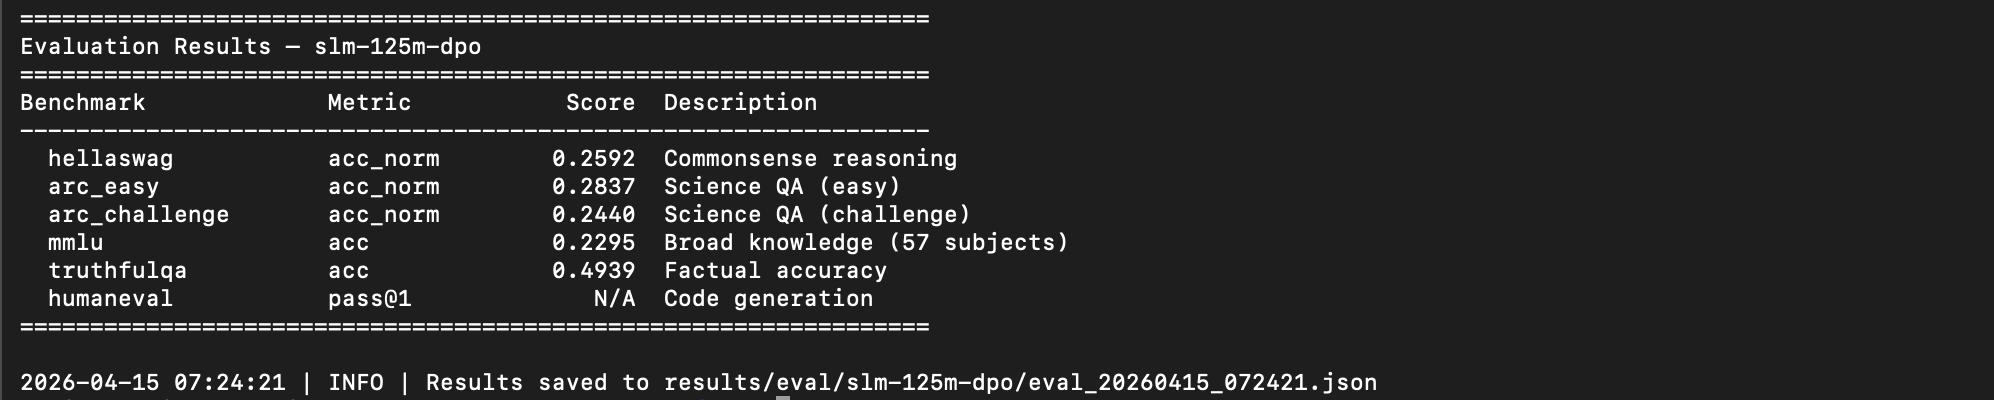
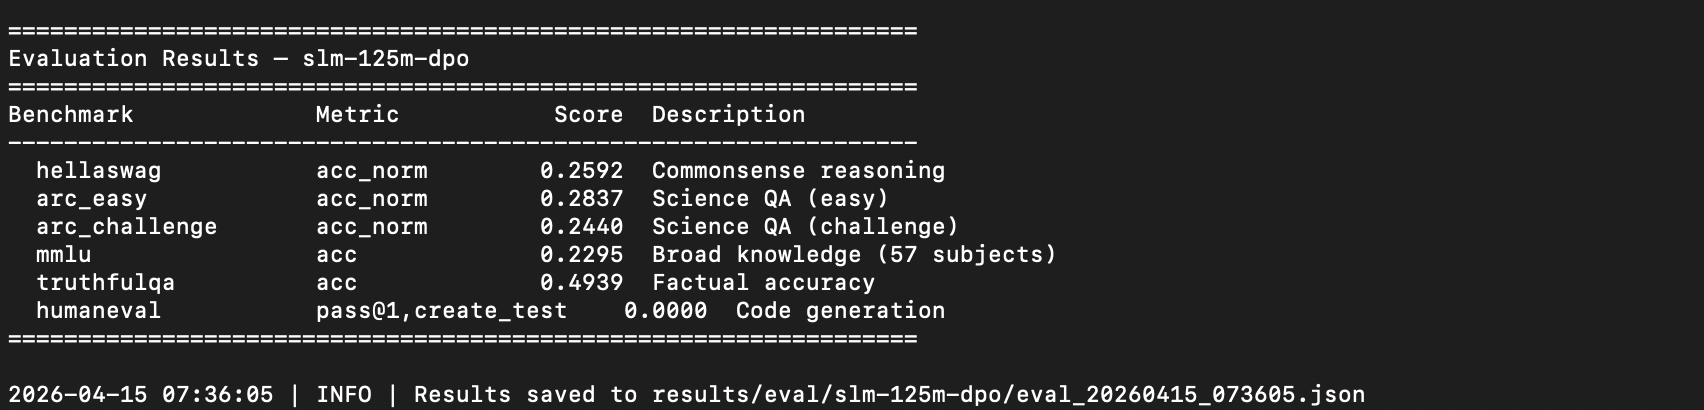
fix: remove safe_serialization from push_to_hub, fix tokenizer loading in export

Changed region(s): [[0.0, 0.03, 0.6221, 0.84], [0.0, 0.93, 0.8087, 1.0]]

diff --git a/export/export.py b/export/export.py
@@ -129,7 +129,12 @@ def load_eval_results(size: str) -> dict:
         }[task_key]
         if task_name in raw_results:
             metric = meta["metric"]
-            score = raw_results[task_name].get(metric) or raw_results[task_name].get(f"{metric},none")
+            # Try exact key, then with ,none suffix, then ,create_test suffix
+            score = (
+                raw_results[task_name].get(metric)
+                or raw_results[task_name].get(f"{metric},none")
+                or raw_results[task_name].get(f"{metric},create_test")
+            )
             if isinstance(score, (int, float)):
                 scores[task_key] = score
 
@@ -329,6 +334,35 @@ def _token_target(size: str) -> str:
     return {"125m": "3B", "350m": "10B", "1b": "25B"}.get(size, "N/A")
 
 
+# ── Tokenizer loader ──────────────────────────────────────────────────────────
+
+def load_tokenizer(tokenizer_path: Path):
+    """
+    Load the custom BPE tokenizer trained with the `tokenizers` library.
+
+    PreTrainedTokenizerFast.from_pretrained() fails when tokenizer_config.json
+    references TokenizersBackend, an unknown class in transformers.
+    Load directly from tokenizer.json and wrap in PreTrainedTokenizerFast.
+    """
+    from tokenizers import Tokenizer as HFTokenizer
+    from transformers import PreTrainedTokenizerFast
+
+    tokenizer_file = tokenizer_path / "tokenizer.json"
+    if not tokenizer_file.exists():
+        raise FileNotFoundError(f"tokenizer.json not found at {tokenizer_path}")
+
+    _tok = HFTokenizer.from_file(str(tokenizer_file))
+    tokenizer = PreTrainedTokenizerFast(tokenizer_object=_tok)
+    tokenizer.pad_token     = "<PAD>"
+    tokenizer.pad_token_id  = 0
+    tokenizer.eos_token     = "<EOS>"
+    tokenizer.eos_token_id  = 3
+    tokenizer.bos_token     = "<BOS>"
+    tokenizer.bos_token_id  = 2
+    tokenizer.chat_template = _chat_template()
+    return tokenizer
+
+
 # ── Export ────────────────────────────────────────────────────────────────────
 
 def export(
@@ -348,7 +382,7 @@ def export(
         dry_run:    If True, validate without pushing to Hub.
         private:    If True, create a private repository.
     """
-    from transformers import AutoConfig, AutoModelForCausalLM, PreTrainedTokenizerFast
+    from transformers import AutoConfig, AutoModelForCausalLM
     from huggingface_hub import HfApi, login
     from model import SLMConfig, SLMForCausalLM
 
@@ -376,20 +410,16 @@ def export(
 
     # Load model — actual parameter count used in model card
     log.info("Loading model...")
-    config  = SLMConfig.from_pretrained(str(checkpoint))
-    model   = SLMForCausalLM.from_pretrained(str(checkpoint))
+    config   = SLMConfig.from_pretrained(str(checkpoint))
+    model    = SLMForCausalLM.from_pretrained(str(checkpoint))
     n_params = sum(p.numel() for p in model.parameters())
     log.info(f"Parameters: {n_params:,} ({n_params / 1e6:.1f}M)")
 
-    # Load tokenizer
+    # Load tokenizer — use tokenizers library directly to bypass TokenizersBackend
     tokenizer_path = checkpoint / "tokenizer"
-    if not tokenizer_path.exists():
+    if not (tokenizer_path / "tokenizer.json").exists():
         tokenizer_path = Path(os.environ.get("DATA_DIR", "data")) / "tokenizer"
-    tokenizer = PreTrainedTokenizerFast.from_pretrained(str(tokenizer_path))
-    tokenizer.pad_token      = "<PAD>"
-    tokenizer.eos_token      = "<EOS>"
-    tokenizer.bos_token      = "<BOS>"
-    tokenizer.chat_template  = _chat_template()
+    tokenizer = load_tokenizer(tokenizer_path)
 
     # Load eval results (populated for chat variant after make eval)
     eval_scores = load_eval_results(size) if variant == "chat" else {}
@@ -419,9 +449,9 @@ def export(
         f.write(model_card)
     log.info(f"Model card written ({len(model_card):,} chars)")
 
-    # Push to Hub
+    # Push to Hub — safe_serialization removed from push_to_hub in transformers v5
     log.info(f"Pushing to {repo_id}...")
-    model.push_to_hub(repo_id, token=HF_TOKEN, private=private, safe_serialization=True)
+    model.push_to_hub(repo_id, token=HF_TOKEN, private=private)
     tokenizer.push_to_hub(repo_id, token=HF_TOKEN, private=private)
     config.push_to_hub(repo_id, token=HF_TOKEN, private=private)
 
@@ -443,7 +473,7 @@ def _validate_model(model, tokenizer, config) -> None:
     log.info("Validating model...")
     model.eval()
 
-    prompt   = "<|system|>You are a helpful assistant.<|endofturn|><|user|>Hello!<|endofturn|><|assistant|>"
+    prompt    = "<|system|>You are a helpful assistant.<|endofturn|><|user|>Hello!<|endofturn|><|assistant|>"
     input_ids = tokenizer(prompt, return_tensors="pt").input_ids
 
     with torch.no_grad():
